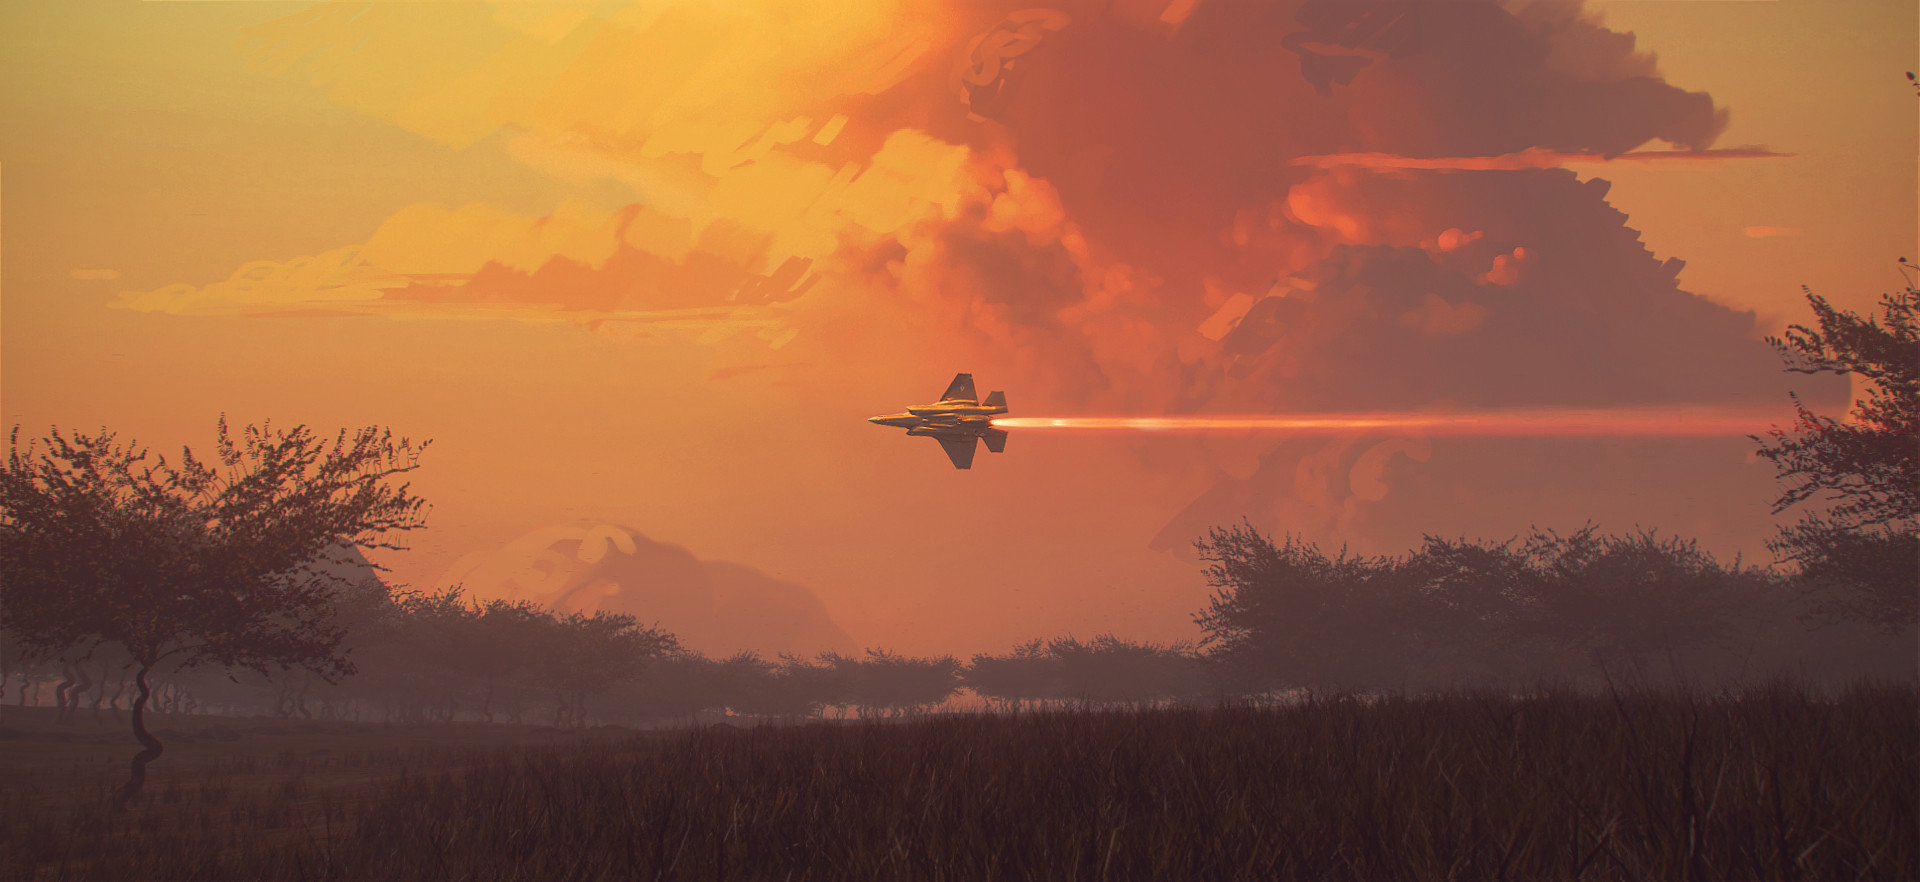
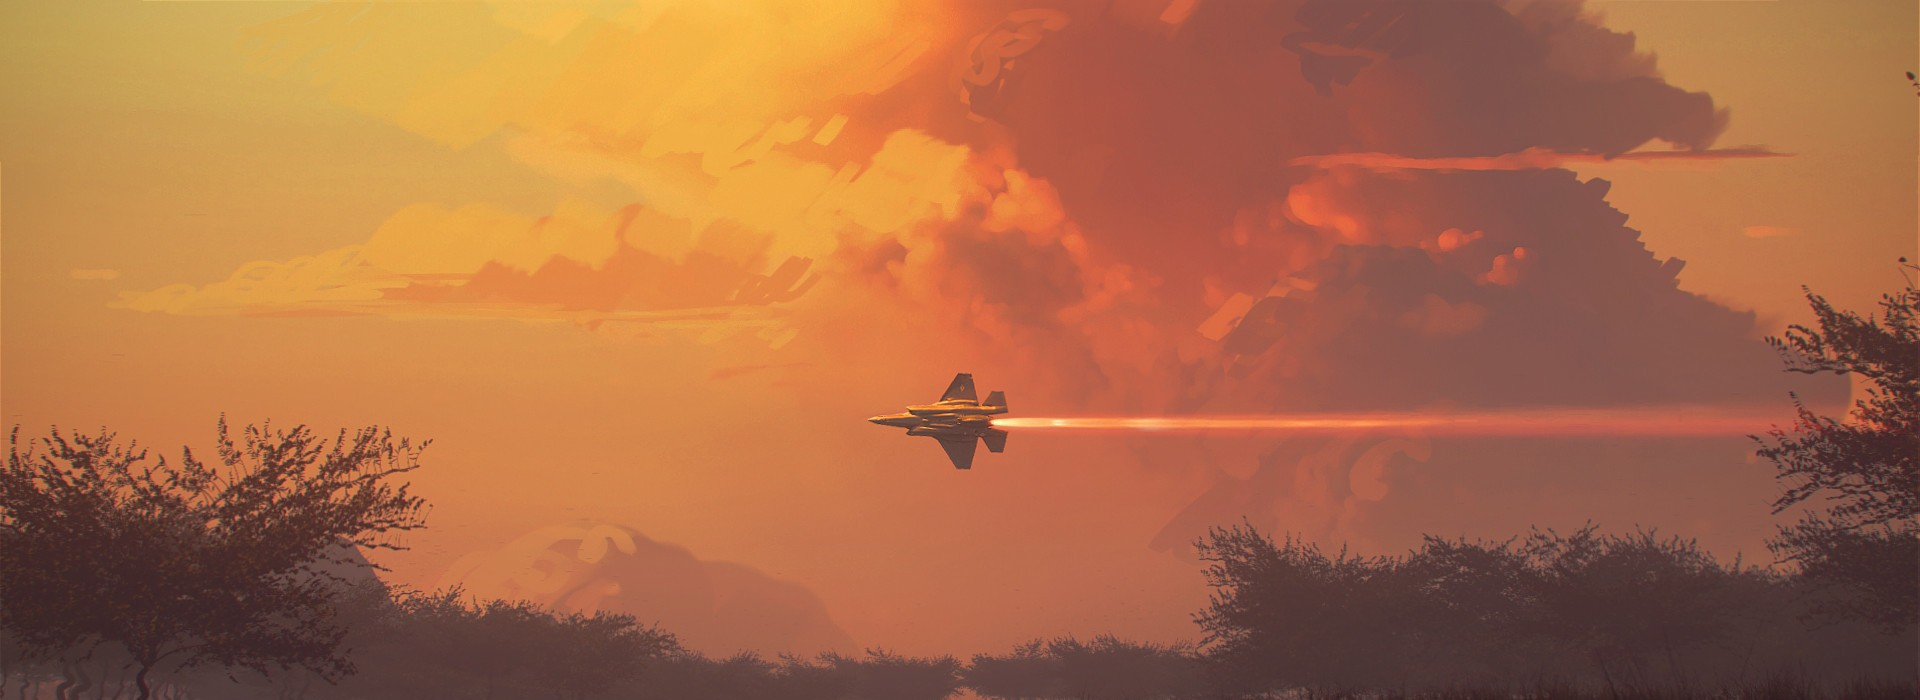
feat: add hero background image and adjust styles for improved layout

diff --git a/docs/smn.css b/docs/smn.css
@@ -10,7 +10,6 @@
  body {
      height: 100%;
      margin: 0;
-
      display: flex;
      background-color: #000000;
      flex-direction: column;
@@ -18,12 +17,15 @@
      color: rgb(255, 255, 255);
      background-image: url('./images/jgf35.jpg');
      background-repeat: no-repeat;
-     background-size: cover;
-     background-position: center;
+     background-size: contain;
+     background-position: top center;
      background-color: rgba(0, 0, 0, 0.418);
      background-blend-mode: darken;
+    
     }
 
+
+ /*   navigation section    */
     .navbar {
       position: sticky;
       top: 0;
@@ -85,25 +87,26 @@
       height: 100%;
     }
 
+    /*   main section    */
     .main {
         display: flex;
         flex-direction: column;
         align-items: center;
         justify-content: center;
         min-height: calc(100vh - 60px); /* Adjust for navbar height */
-        padding: 1rem;
+        
         }
 
   .hero {
-   max-width: 800px;
+   max-width: 100vw;
    margin: 5rem auto;
    padding: 0 2rem;
-   text-align: center;
+   text-align: center;  
   }
 
 .hero-title {
   font-size: 3rem;
-  line-height: 1.2;
+  line-height: 2;
   font-weight: 700;
   color: white;
   margin-bottom: 2rem;
@@ -112,12 +115,12 @@
 .hero-title .highlight {
   display: block;
   font-weight: 400;
-  font-size: 1.5rem;
+  font-size: 1.2rem;
   color: rgba(255, 255, 255, 0.85);
 }
 
 .hero-intro {
-  font-size: 1.125rem;
+  font-size: 1rem;
   line-height: 1.6;
   color: rgba(255, 255, 255, 0.8);
   max-width: 700px;
@@ -178,6 +181,7 @@
 
   .flex-items:hover{
     scale: 1.03;
+    cursor: pointer;
   }
 
 
@@ -250,6 +254,9 @@
 
 
     @media (max-width: 768px) {
+      .body {
+             background-size: auto;
+      }
       .nav-links {
       flex-direction: column;
       background: #00000034;

diff --git a/docs/index2.html b/docs/index2.html
@@ -52,6 +52,8 @@
       document.getElementById('navMenu').classList.toggle('show');
     }
   </script>
+  <div class="hero-bg"></div>
+
 
   <main style="padding: 2rem;">
     <div class="hero">
